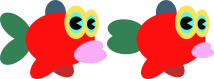
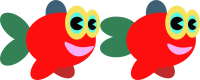
On branch master  Changes to be committed: 	new file:   android/assets/coins.atlas 	new file:   android/assets/coins.png 	modified:   android/assets/fish.atlas 	modified:   android/assets/fish.png 	modified:   android/assets/fish1.png 	modified:   android/assets/fish2.png 	modified:   android/assets

diff --git a/core/src/scenes/GamePlay.java b/core/src/scenes/GamePlay.java
@@ -69,6 +69,8 @@ public class GamePlay implements Screen, ContactListener {
 
     Music backgroundMusic;
 
+    int count = 0;
+
     public GamePlay(GameMain game){
 
         this.game = game;
@@ -145,7 +147,13 @@ public class GamePlay implements Screen, ContactListener {
             public void run() {
                 //put custom code
                 createPipes();
-                createCoin();
+
+                count++;
+                if(count >= Math.floor(5 + 5 * Math.random())) {
+                    createCoin();
+                    count = 0;
+                }
+
             }
         });
 
@@ -169,7 +177,7 @@ public class GamePlay implements Screen, ContactListener {
 
     void stopPlayer() {
         player.stopPlayer();
-        world.setGravity(new Vector2(0, -0.1f * GameInfo.GAMEPLAY_WORLD_G_ACCELERATION));
+        world.setGravity(new Vector2(0, -0.2f * GameInfo.GAMEPLAY_WORLD_G_ACCELERATION));
     }
 
     void createBackgrounds() {
@@ -263,7 +271,7 @@ public class GamePlay implements Screen, ContactListener {
 
     // COINS -------------------------------------------------------------------------------------
     void createCoin() {
-        Coins coin = new Coins(world, GameInfo.WIDTH + GameInfo.DISTANCE_BETWEEN_PIPES / 2f);
+        Coins coin = new Coins(world, GameInfo.WIDTH + GameInfo.DISTANCE_BETWEEN_PIPES);
         coin.setMainCamera(mainCamera);
         coinsArray.add(coin);
     }
@@ -350,7 +358,7 @@ public class GamePlay implements Screen, ContactListener {
         game.getBatch().end();
 
         // comment this to hide debugrender shape's line
-        debugRenderer.render(world, debugCamera.combined);
+        //debugRenderer.render(world, debugCamera.combined);
 
         game.getBatch().setProjectionMatrix(hud.getStage().getCamera().combined);
         hud.getStage().draw();
@@ -436,6 +444,17 @@ public class GamePlay implements Screen, ContactListener {
                 scoreSound.play();
             }
             hud.incrementScore();
+
+            /*
+            //Non funziona !
+            for (Coins coin : coinsArray){
+                coin.scale(0.01f);
+            }
+            */
+
+            //Funziona
+            coinsArray.clear();
+
 
         }
 

diff --git a/core/src/coins/Coins.java b/core/src/coins/Coins.java
@@ -40,17 +40,14 @@ public class Coins extends Sprite {
     public Coins(World world, float x){
         //super(new Texture("coin1.png"));
         this.world = world;
-        createCoin(x, getRandomY());
-
+        createCoin(x, GameManager.getInstance().getRandomY());
     }
 
     void createCoin(float x, float y) {
 
         createAnimation();
 
-        setPosition(x, y + GameInfo.DISTANCE_BETWEEN_PIPES / 2f);
-
-        app.log("Create coin, pos", x + "; " + y);
+        setPosition(x, y );
 
         BodyDef bodyDef = new BodyDef();
         bodyDef.type = BodyDef.BodyType.KinematicBody;
@@ -84,8 +81,8 @@ public class Coins extends Sprite {
     }
 
     void createAnimation() {
-        TextureAtlas coinAtlas = new TextureAtlas("coin.atlas");
-        animation = new Animation<TextureRegion>(1f/8f, coinAtlas.getRegions()); // 1f/7f = 7 frame al secondo
+        TextureAtlas coinAtlas = new TextureAtlas("coins.atlas");
+        animation = new Animation<TextureRegion>(1f/12f, coinAtlas.getRegions()); // 1f/7f = 7 frame al secondo
     }
 
     public void updateCoin (){
@@ -113,11 +110,12 @@ public class Coins extends Sprite {
     }
 
 
-    float getRandomY() {
-        float max = (GameInfo.HIGHT)/ 2f + 100;
-        float min = (GameInfo.HIGHT)/ 2f - 100;
+    // Sostituito da GameManager.getInstance().getRandomY();
+/*    float getRandomY() {
+        float max = (GameInfo.HIGHT)/ 2f + 20;
+        float min = (GameInfo.HIGHT)/ 2f - 20;
         return random.nextFloat() * (max - min) + min;
-    }
+    }*/
 
 
 } //Coins

diff --git a/core/src/pipes/Pipes.java b/core/src/pipes/Pipes.java
@@ -13,6 +13,7 @@ import com.badlogic.gdx.physics.box2d.World;
 
 import java.util.Random;
 import helpers.GameInfo;
+import helpers.GameManager;
 
 /**
  * Created by Giuseppe on 11/08/2017.
@@ -28,9 +29,15 @@ public class Pipes {
 
     private OrthographicCamera mainCamera;
 
+    private float randomY;
+
     public Pipes(World world, float x) {
         this.world = world;
-        createPipes(x, getRandomY());
+
+        randomY = getRandomY();
+        GameManager.getInstance().setRandomY(randomY);
+
+        createPipes(x, randomY);
     }
 
     void createPipes(float x, float y){
@@ -115,8 +122,8 @@ public class Pipes {
     }
 
     float getRandomY() {
-        float max = (GameInfo.HIGHT)/ 2f + 150;
-        float min = (GameInfo.HIGHT)/ 2f - 150;
+        float max = (GameInfo.HIGHT)/ 2f + 100;
+        float min = (GameInfo.HIGHT)/ 2f - 100;
         return random.nextFloat() * (max - min) + min;
     }
 

diff --git a/core/src/helpers/GameInfo.java b/core/src/helpers/GameInfo.java
@@ -11,12 +11,12 @@ public class GameInfo {
     public static final float BACKGROUND_SPEED = 2f;
     public static final float GROUND_SPEED = 2f;
 
-    public static final float PIPES_SPAWN_DELAY = 3.8F;
+    public static final float PIPES_SPAWN_DELAY = 2.5F;
     public static final float PLAYER_LINEAR_VELOCITY_X = 0f; //0.02f;
     public static final float PLAYER_LINEAR_VELOCITY_Y = -2f; //2f;
-    public static final float GAMEPLAY_WORLD_G_ACCELERATION = 9.81f;
+    public static final float GAMEPLAY_WORLD_G_ACCELERATION = 5f; //9.81f;
 
-    public static final float DISTANCE_BETWEEN_PIPES = 280f;
+    public static final float DISTANCE_BETWEEN_PIPES = 300f;
 
     public static final short PLAYER = 2;
     public static final short GROUND = 4;

diff --git a/core/src/helpers/GameManager.java b/core/src/helpers/GameManager.java
@@ -1,5 +1,7 @@
 package helpers;
 
+import static com.badlogic.gdx.math.MathUtils.random;
+
 /**
  * Created by Giuseppe on 11/08/2017.
  */
@@ -10,6 +12,7 @@ public class GameManager {
     private final String[] players = {"sisa.png", "moma.png"};
     private int index = 1;
 
+    private float randomY;
 
     private GameManager() {
     }
@@ -23,6 +26,14 @@ public class GameManager {
 
     public String getPlayer() {
         return  players[index];
+    }
+
+    public float getRandomY() {
+        return randomY;
+    }
+
+    public void setRandomY(Float randomY) {
+        this.randomY = randomY;
     }
 
     public static GameManager getInstance() {

diff --git a/core/src/players/Player.java b/core/src/players/Player.java
@@ -114,7 +114,7 @@ public class Player extends Sprite {
 
     void createAnimation() {
         TextureAtlas playerAtlas = new TextureAtlas("fish.atlas");
-        animation = new Animation<TextureRegion>(1f/8f, playerAtlas.getRegions()); // 1f/7f = 7 frame al secondo
+        animation = new Animation<TextureRegion>(1f/5f, playerAtlas.getRegions()); // 1f/7f = 7 frame al secondo
     }
 
     public void setAlive(boolean isAlive) {

diff --git a/core/src/top/TopBody.java b/core/src/top/TopBody.java
@@ -15,6 +15,8 @@ import helpers.GameInfo;
  * Created by Giuseppe on 16/08/2017.
  */
 
+// This element is for ending the game when player reach the water surface
+
 public class TopBody {
 
     private World world;
